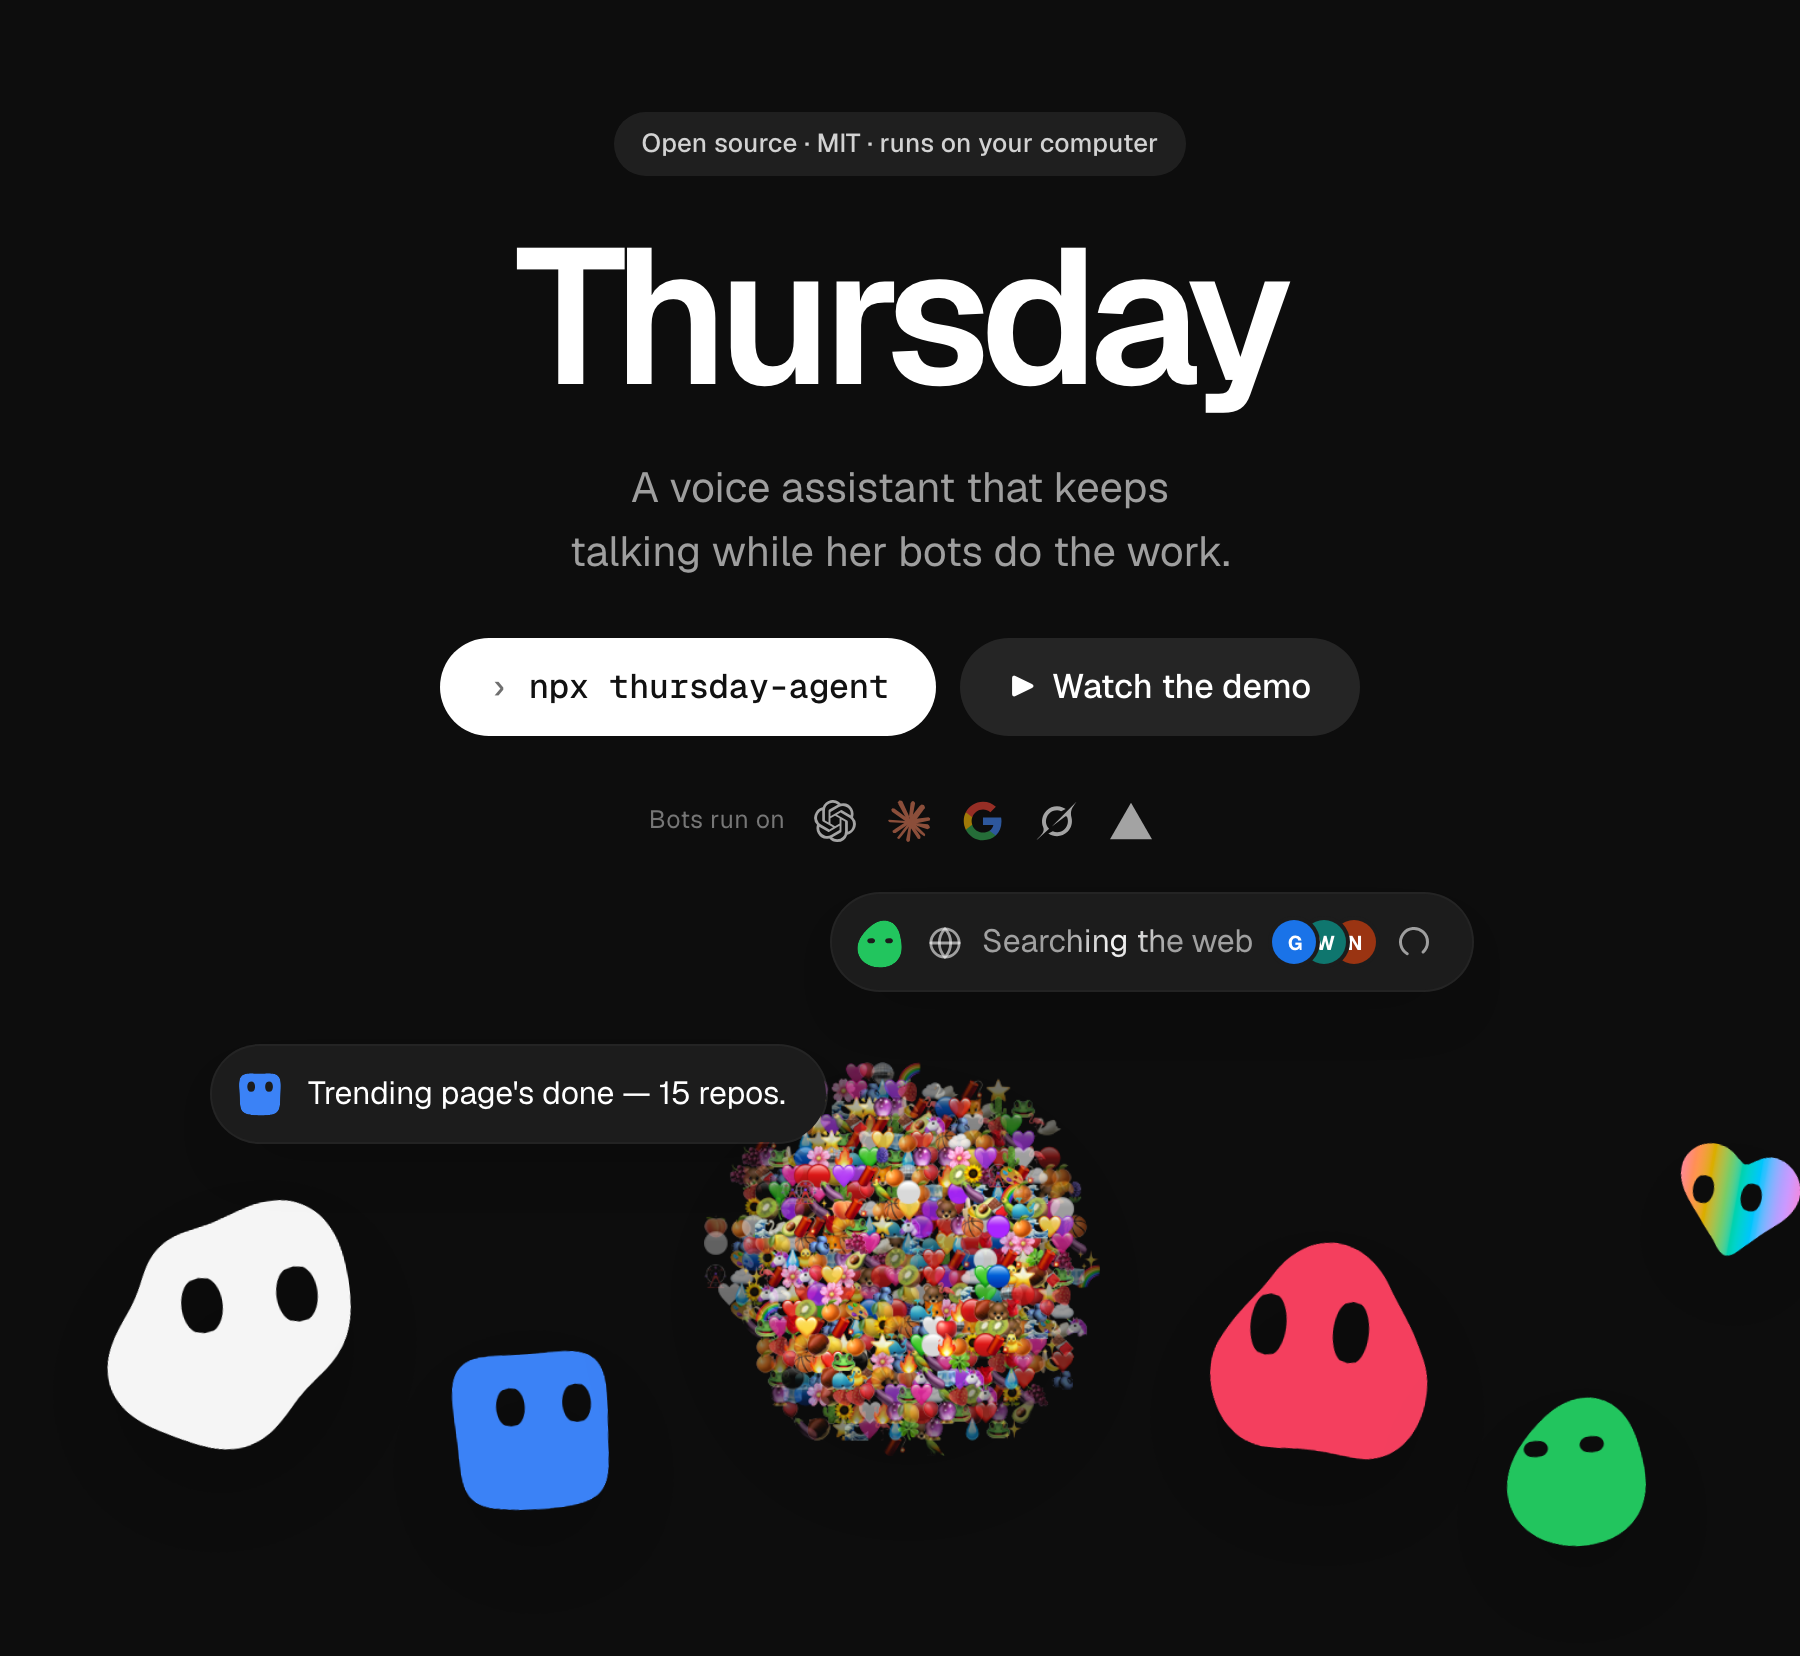
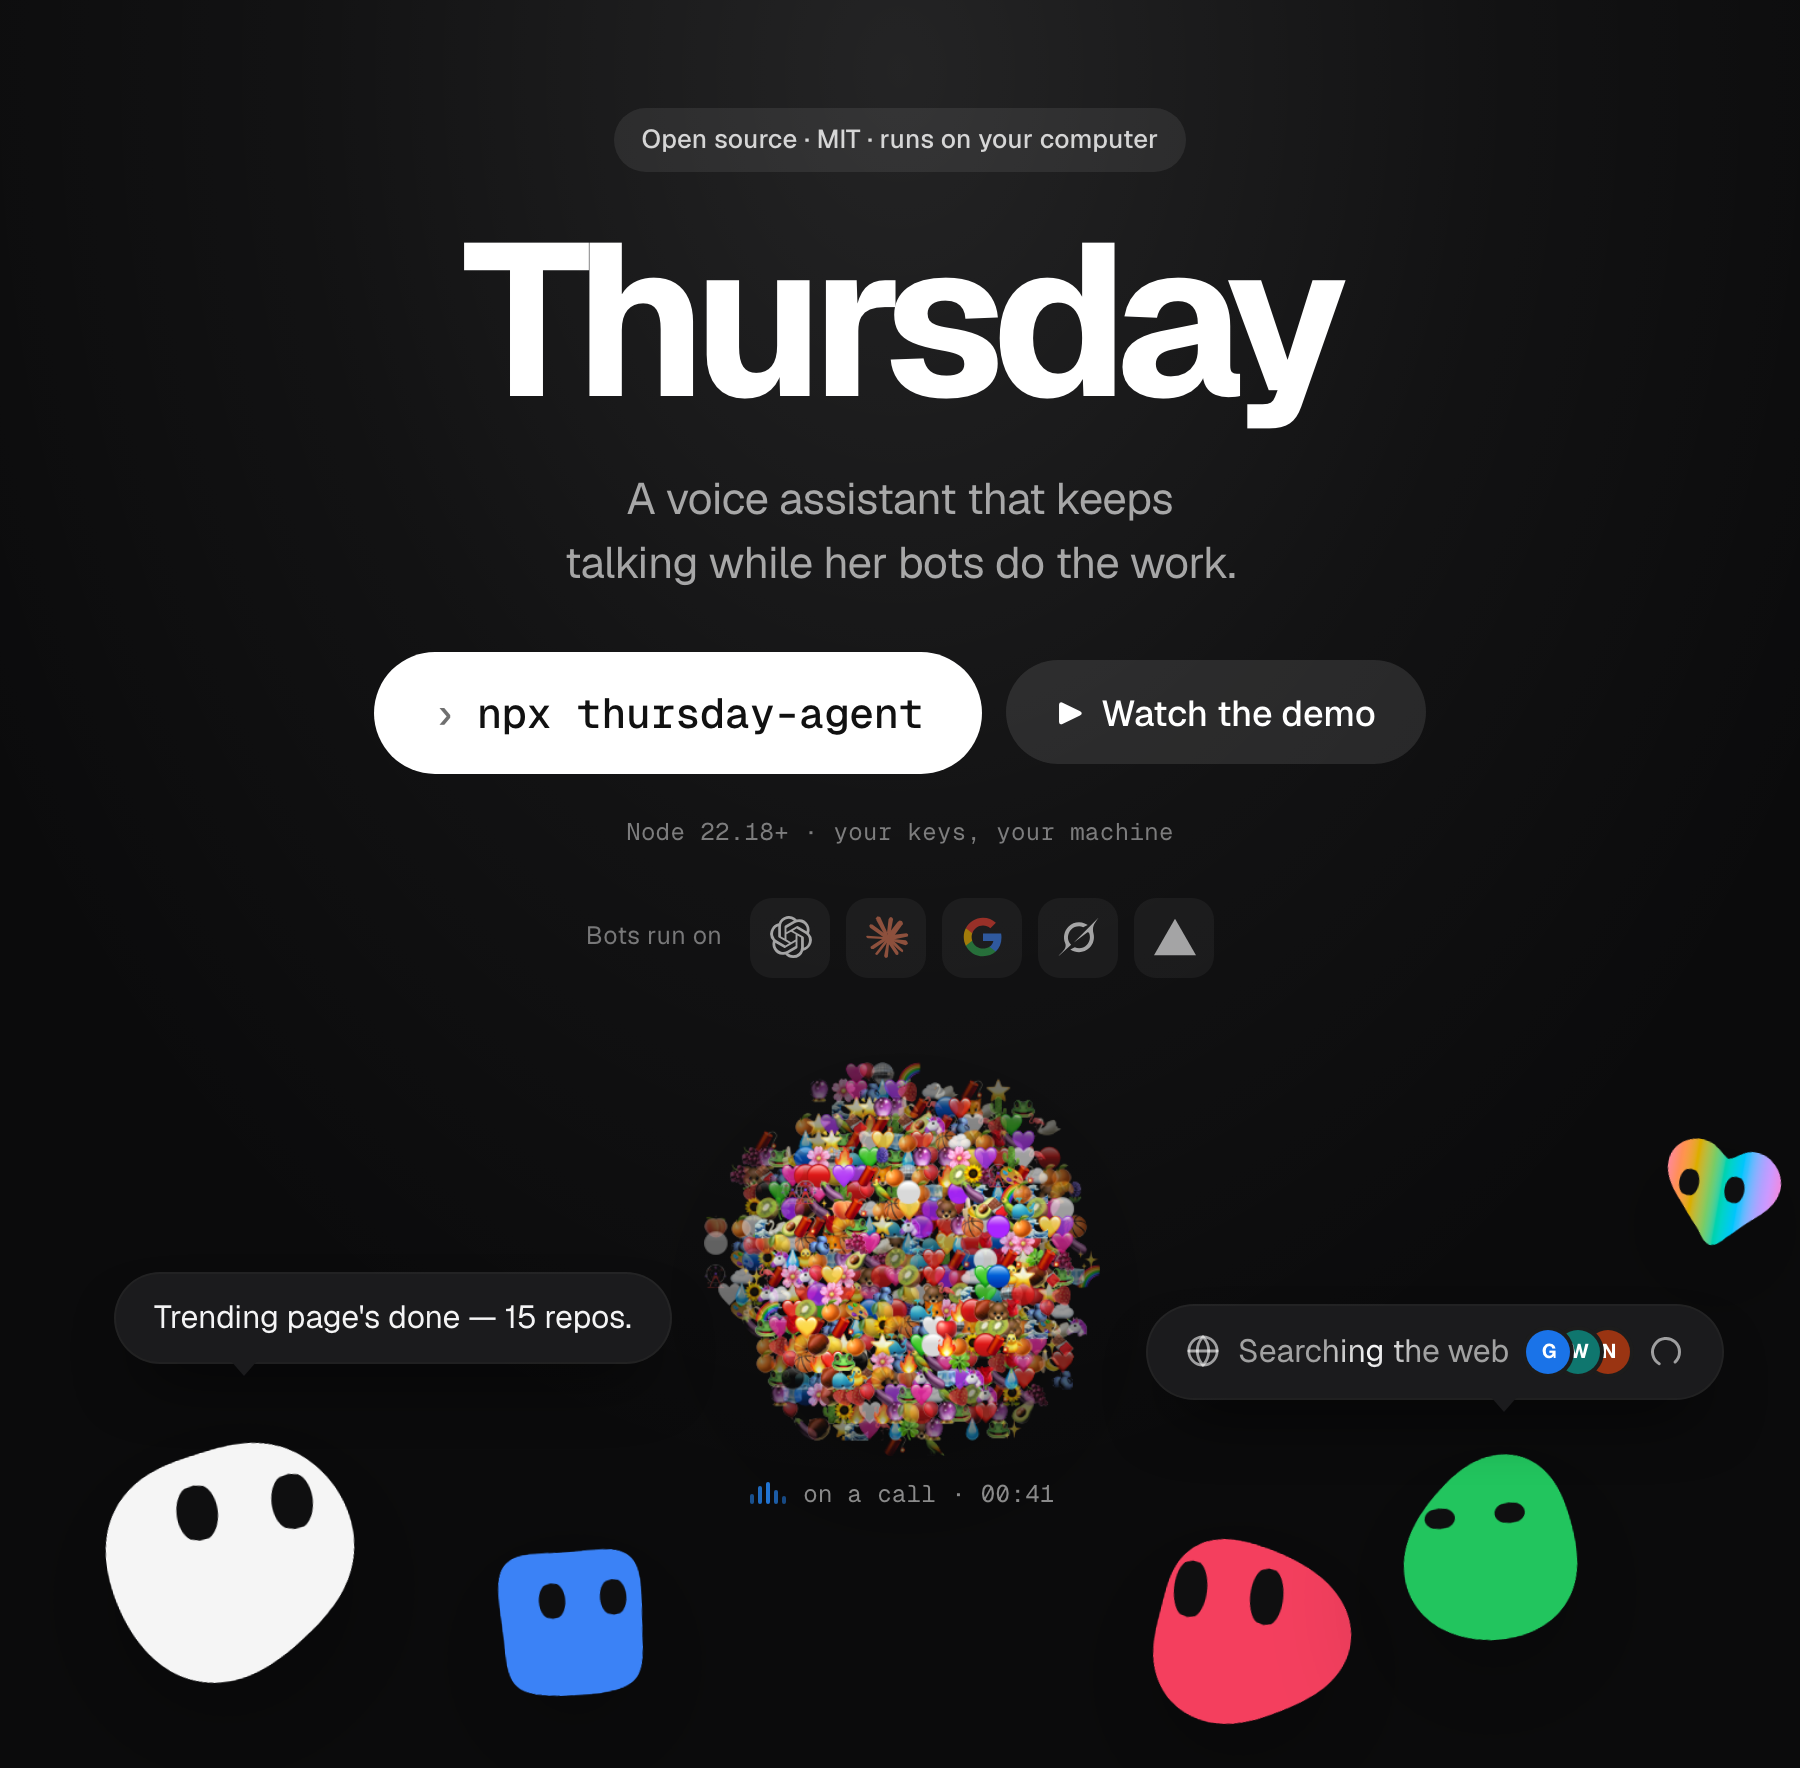
docs(readme): the scenes stand on a ground, and a bot's eyes are eyes
The pictures under the hero were flat crops on plain paper and read as thin: no
ground, too close, spacing that did not line up. Each is drawn again on a ground
of light and shade — one fall of white at 7–10% over the page's own black or
grey, no colour, kept under what a screen can band — with the subject raised off
it and the app's own lines where they belong.

Talk is the call screen with one bot standing in front of it, big enough to read
at a phone's width; the work under her words carries the tool glyph, the shine,
the pages a search read and the spinner, and the pill's "working" shines the way
the app shines it. Team is a thread that reads as two bots talking: the open
tab's bot holds the left on no surface and the other answers from the right, as
the app draws it, and the waiting colour is on the question itself rather than on
a pill floating over the window. Errands is a browser window with its lights, its
tab and its address, the shop's page at the size a browser really shows it, and
the face in front of it. The four small cards each get a ground of their own, the
phone card names the three services with the marks the app fetches for them, and
memory is drawn from behind the notes it just wrote.

The hero keeps its composition and gains what it was missing: the name at the
app's display weight, the npx line a size up with what it needs under it, the
providers on the app's own secondary, a call that says it is a call, and each
[…]

diff --git a/README.md b/README.md
@@ -43,13 +43,13 @@ A speech model that opens a browser goes silent for a minute, and a silent call 
   <img src="https://raw.githubusercontent.com/cgoinglove/thursday/main/docs/images/talk-light.png" alt="On a call: she says a bot is on it and will tell you when it is back. Below, the job is handed over and a web search starts" width="880">
 </picture>
 
-### One sentence, a whole team
+### One ask, a whole team
 
 Bots hand parts of a job to each other, check what comes back, and ask you only when a decision is yours. Every handoff is saved: open the thread to see who did what, or step in.
 
 <picture>
   <source media="(prefers-color-scheme: dark)" srcset="https://raw.githubusercontent.com/cgoinglove/thursday/main/docs/images/team-dark.png">
-  <img src="https://raw.githubusercontent.com/cgoinglove/thursday/main/docs/images/team-light.png" alt="Three bots in one pill, looping in another, and a question waiting on the user" width="880">
+  <img src="https://raw.githubusercontent.com/cgoinglove/thursday/main/docs/images/team-light.png" alt="A thread between two bots: one hands the job over, the other reports what it compared, and a question waits on you" width="880">
 </picture>
 
 ### Errands, in a real browser
@@ -58,7 +58,7 @@ Orders, bookings, forms, the inbox. A bot uses its own browser or the Chrome you
 
 <picture>
   <source media="(prefers-color-scheme: dark)" srcset="https://raw.githubusercontent.com/cgoinglove/thursday/main/docs/images/errands-dark.png">
-  <img src="https://raw.githubusercontent.com/cgoinglove/thursday/main/docs/images/errands-light.png" alt="A checkout a bot filled in and left open, marked “waiting on you”" width="880">
+  <img src="https://raw.githubusercontent.com/cgoinglove/thursday/main/docs/images/errands-light.png" alt="A checkout in a browser a bot drove: filled in, stopped at the Pay button, left open on your screen" width="880">
 </picture>
 
 ### Results you can keep

diff --git a/README.ko.md b/README.ko.md
@@ -49,7 +49,7 @@ Node.js 22.18 이상과 OpenAI API 키 하나면 됩니다. 첫 화면에 키를
 
 <picture>
   <source media="(prefers-color-scheme: dark)" srcset="https://raw.githubusercontent.com/cgoinglove/thursday/main/docs/images/team-dark.png">
-  <img src="https://raw.githubusercontent.com/cgoinglove/thursday/main/docs/images/team-light.png" alt="한 알약 안의 봇 셋이 다른 봇을 부르고, 질문 하나가 사용자를 기다린다" width="880">
+  <img src="https://raw.githubusercontent.com/cgoinglove/thursday/main/docs/images/team-light.png" alt="봇 둘의 스레드 — 하나가 일을 넘기고, 다른 하나가 비교한 것을 보고하고, 질문 하나가 나를 기다린다" width="880">
 </picture>
 
 ### 심부름은 진짜 브라우저로
@@ -58,7 +58,7 @@ Node.js 22.18 이상과 OpenAI API 키 하나면 됩니다. 첫 화면에 키를
 
 <picture>
   <source media="(prefers-color-scheme: dark)" srcset="https://raw.githubusercontent.com/cgoinglove/thursday/main/docs/images/errands-dark.png">
-  <img src="https://raw.githubusercontent.com/cgoinglove/thursday/main/docs/images/errands-light.png" alt="봇이 채워 두고 남긴 결제 화면, ‘waiting on you’ 표시와 함께" width="880">
+  <img src="https://raw.githubusercontent.com/cgoinglove/thursday/main/docs/images/errands-light.png" alt="봇이 몰던 브라우저의 결제 화면 — 다 채워 두고 결제 버튼 앞에서 멈춰 열린 채로 남았다" width="880">
 </picture>
 
 ### 결과는 파일로 남습니다
